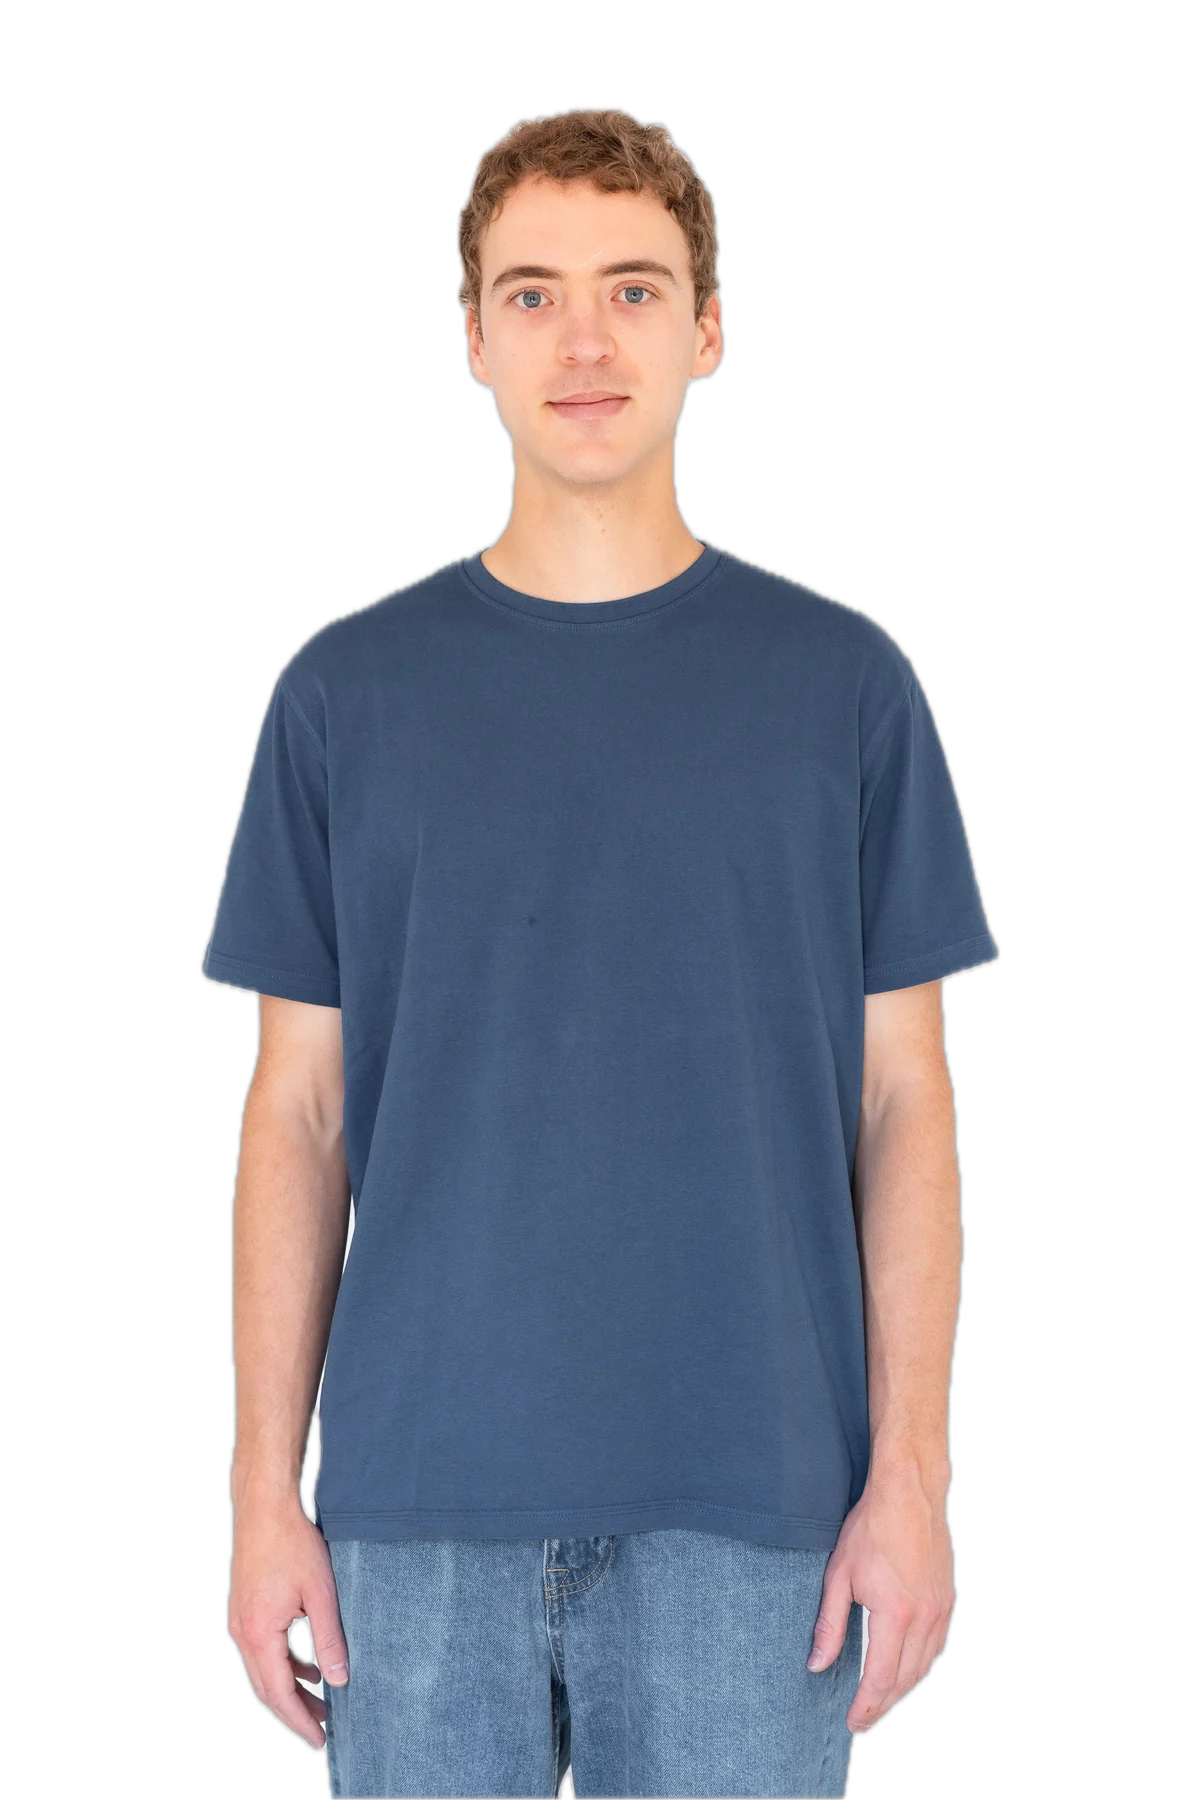
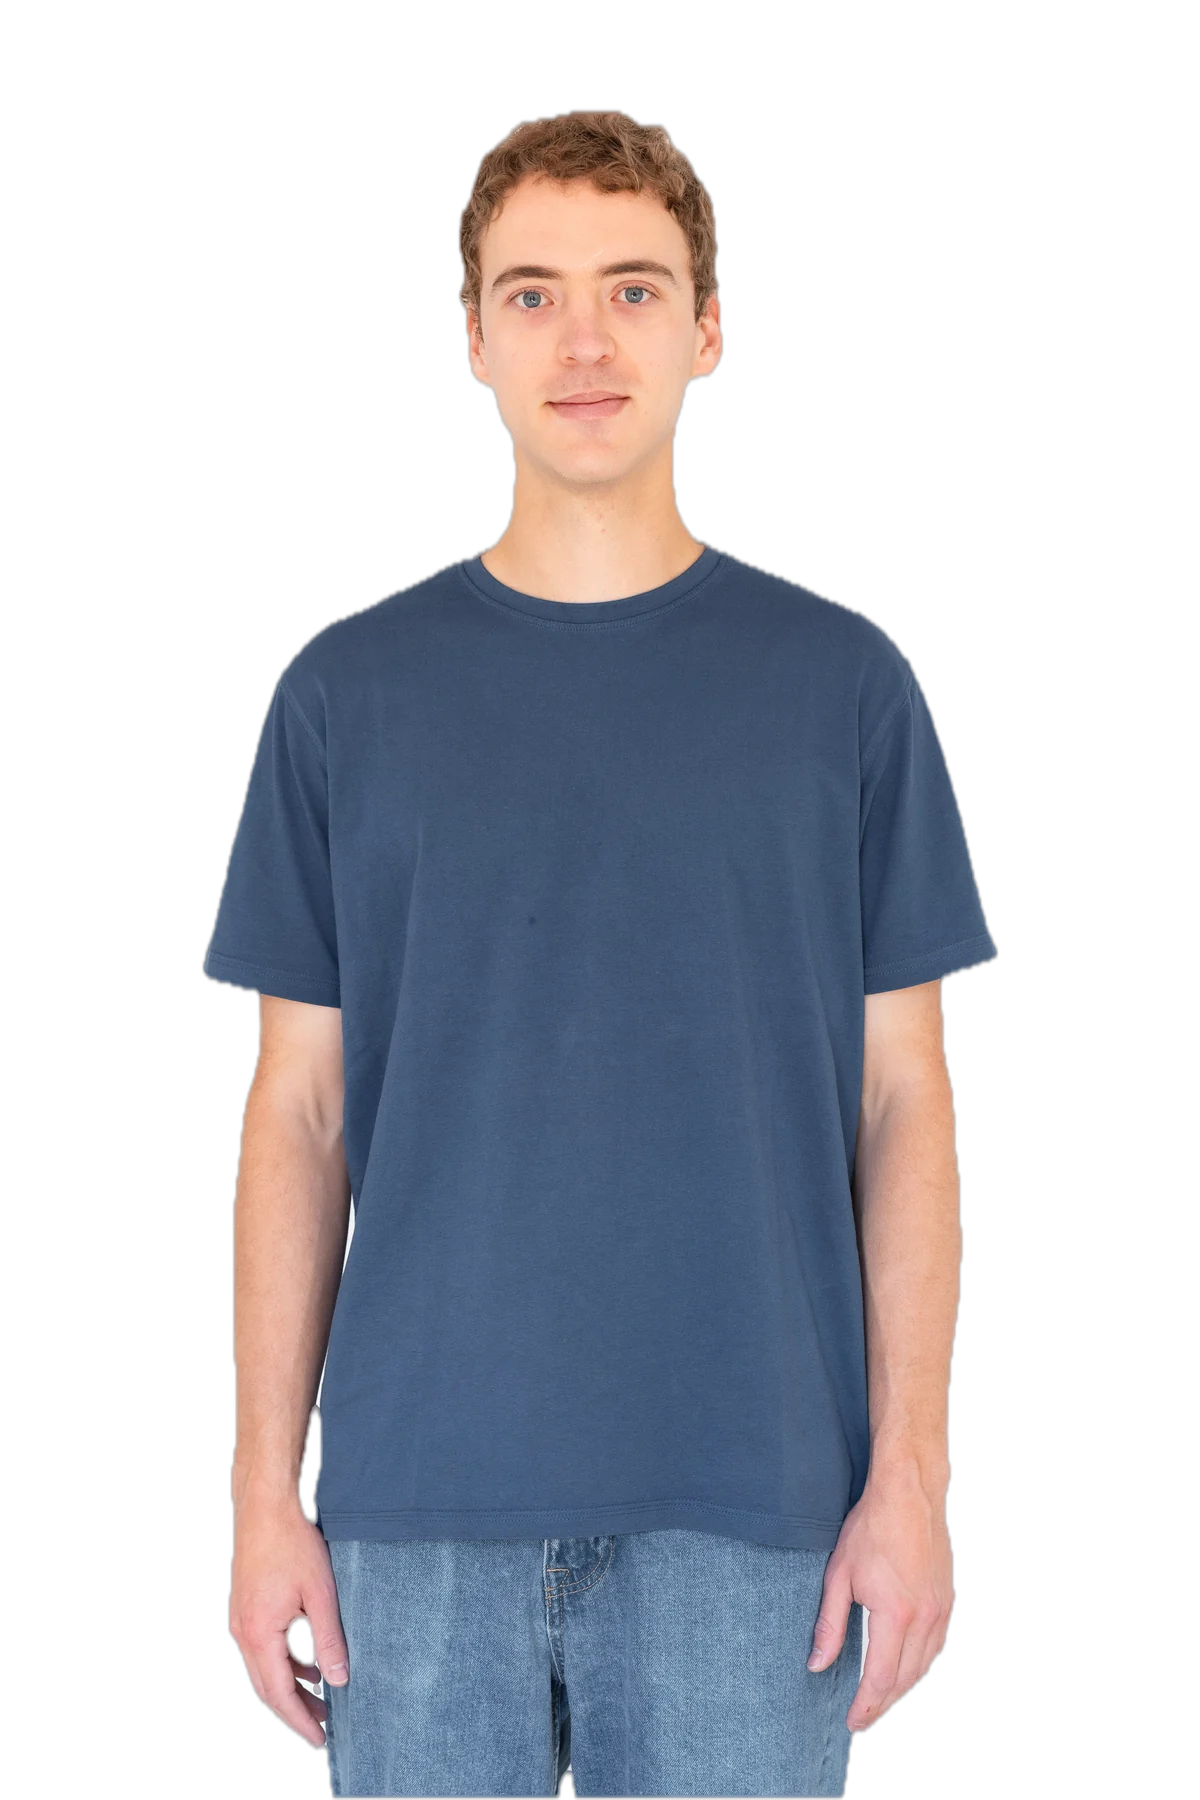
Full-screen poster, more vertical room, no documents title, clean cut-out edges
- The "Ignacio" poster is exactly one screen (100svh); more space around About and before the footer
- "The documents / Each one opens as a PDF." removed; a visually hidden heading keeps it announced
- Poses: colour-decontaminated and choked edges (no pale studio-wall rim on dark backgrounds),
  re-aligned with the same rule (<=2px shift)

Changed region(s): [[0.2775, 0.9956, 0.7092, 1.0], [0.2467, 0.7778, 0.2775, 0.84]]

diff --git a/style.css b/style.css
@@ -43,8 +43,8 @@ button{font:inherit;color:inherit}
 .pin .stage{position:sticky;top:0}
 .pin .run{height:140svh}
 
-/* 86svh, so the next section peeks in under it; capped by width so the poster keeps its proportion */
-.hero{--H:max(560px,min(86svh,64vw));--cx:55vw;position:relative;height:var(--H);overflow:hidden}
+/* the poster is exactly one screen: the name gets the whole viewport (Iggy: more vertical room, a sense of space) */
+.hero{--H:max(600px,100svh);--cx:55vw;position:relative;height:var(--H);overflow:hidden}
 .bar{position:absolute;inset:12px var(--gut) auto;display:flex;justify-content:space-between;align-items:center;z-index:6}
 .bar a{display:inline-flex;align-items:center;justify-content:center;min-height:44px;min-width:44px}
 .bar nav{display:flex;gap:22px}
@@ -96,7 +96,7 @@ button{font:inherit;color:inherit}
 .build .c{display:inline-block}
 
 /* ================================================================ 2. about */
-.about{padding:22px var(--gut) clamp(120px,14vw,220px)}
+.about{padding:clamp(96px,11vw,180px) var(--gut) clamp(200px,22vw,360px)}
 .label{margin:0 0 clamp(28px,4vw,56px);font-size:14px;font-weight:500;color:var(--quiet)}
 .about p{margin:0;max-width:19.5em;font-size:clamp(26px,3.3vw,48px);line-height:1.1;letter-spacing:-.025em;text-wrap:pretty}
 
@@ -104,9 +104,6 @@ button{font:inherit;color:inherit}
 .desk{position:relative;color:var(--ink);overflow:hidden;
   font:400 14px/20px Figtree,system-ui,sans-serif;outline:none}
 
-.intro h2{font:400 64px/.95 "Instrument Serif",serif;margin:0 0 14px;letter-spacing:-.5px}
-.intro h2 i{font-style:italic}
-.intro p{margin:0;color:var(--ink2);font-size:15px;line-height:22px}
 .hint{margin:0;color:var(--ink2);font-size:14px;display:none}
 
 /* ---------- objects ---------- */
@@ -176,7 +173,6 @@ button{font:inherit;color:inherit}
 /* ---------- stack (phones, tablets, no JS): the same groups, squared in a column ---------- */
 .board{position:relative;display:grid;grid-template-columns:1fr 1fr;column-gap:20px;row-gap:80px;
   padding:0 16px 96px;max-width:760px;margin:0 auto}
-.board .intro{grid-column:1/-1}
 .board{--pw:min(124px,28vw)}
 .board #cv{grid-column:1/-1;justify-self:center;width:min(330px,62vw);margin:24px calc(var(--pw) - 30px) 0 0}
 .board .pola{right:calc(30px - var(--pw));width:var(--pw);padding:7px 7px 26px}
@@ -198,7 +194,6 @@ button{font:inherit;color:inherit}
 .desk.on{height:calc(1280px * var(--s,1))}
 .desk.on .board{position:absolute;left:var(--ox,0);top:0;display:block;width:1440px;height:1280px;max-width:none;margin:0;padding:0;
   transform:scale(var(--s,1));transform-origin:0 0}
-.desk.on .intro{position:absolute;left:113px;top:40px;width:600px}
 .desk.on .hint{display:block;position:absolute;right:113px;top:150px}
 .desk.on .obj{position:absolute;left:0;top:0;margin:0;opacity:0;will-change:transform;
   transform:translate(var(--x),calc(var(--y) + var(--dy,-30px))) rotate(var(--t,0deg));
@@ -216,7 +211,7 @@ button{font:inherit;color:inherit}
 /* ================================================================ 4. the end */
 /* one quiet line after a long pause: his name, then the same three links as the top bar */
 .end{display:flex;justify-content:space-between;align-items:center;flex-wrap:wrap;gap:0 24px;
-  padding:clamp(140px,16vw,260px) var(--gut) 16px;font-size:13px;color:var(--quiet)}
+  padding:clamp(220px,24vw,400px) var(--gut) 20px;font-size:13px;color:var(--quiet)}
 .end small{font-size:inherit}
 .end nav{display:flex;gap:22px}
 .end a{display:inline-flex;align-items:center;min-height:44px;min-width:44px}
@@ -228,7 +223,7 @@ button{font:inherit;color:inherit}
   .bar{inset:8px var(--gut) auto}
   .bar .who{display:none}
   .bar nav{gap:0;justify-content:space-between;width:100%}
-  .hero{--H:max(560px,min(86svh,200vw));--cx:58vw}
+  .hero{--H:max(560px,100svh);--cx:58vw}
   .say{top:64px;right:var(--gut);max-width:none;font-size:19px;line-height:1.18}
   .me{--h:min(calc(var(--H) * 1.02),150vw);top:auto;bottom:calc(var(--h) * -.14)}
   .hero .me{--cut:14%}
@@ -259,3 +254,6 @@ button{font:inherit;color:inherit}
 .static .cue i{background-size:1px 100%}
 .static .desk:not(.on) .obj,.static .obj .tag,.static .obj .card,.static .obj .card li,.static .obj .to,.static .obj .ln{opacity:1!important;transform:none}
 .static .desk.on .obj{opacity:1;--dy:0px;transform:translate(var(--x),var(--y))}
+
+/* visually hidden but announced (the desk's heading) */
+.vh{position:absolute;width:1px;height:1px;margin:-1px;overflow:hidden;clip:rect(0 0 0 0);white-space:nowrap;border:0}

diff --git a/index.html b/index.html
@@ -84,10 +84,7 @@
 <main class="desk" id="documents" tabindex="-1">
   <div class="board" id="board">
 
-    <div class="intro">
-      <h2 class="build">The <i>documents</i></h2>
-      <p>Each one opens as a PDF.</p>
-    </div>
+    <h2 class="vh">Documents</h2>   <!-- announced to screen readers; no visible title (Iggy: the desk speaks for itself) -->
     <p class="hint" aria-hidden="true"><span class="fine">Drag anything; it slides back into place.</span></p>
 
     <!-- group 1: CV with the photo clipped on -->
